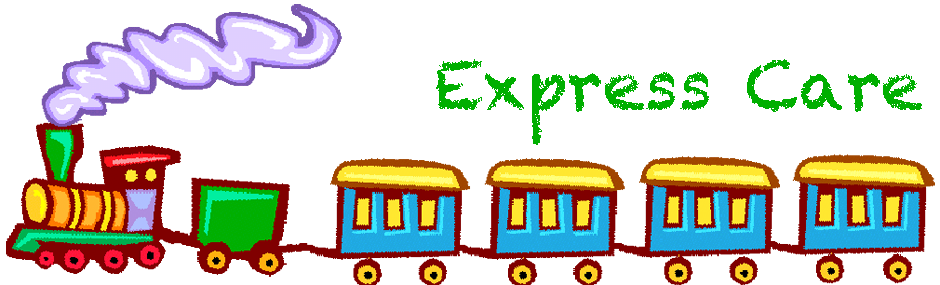
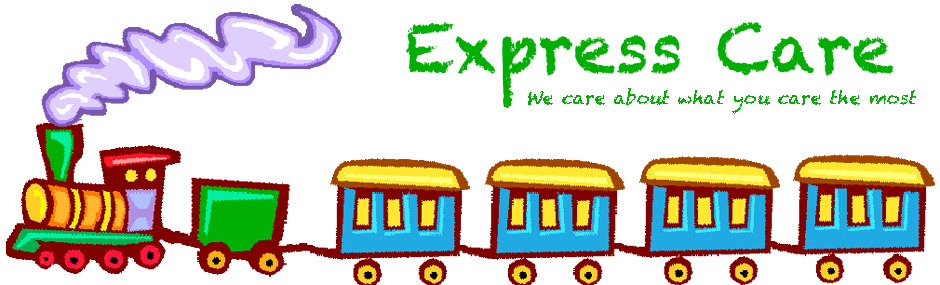
CSS changes and some texts

Changed region(s): [[0.4319, 0.0842, 0.9872, 0.5053]]

diff --git a/app/views/search.scala.html b/app/views/search.scala.html
@@ -11,10 +11,10 @@
 	    
 	    <img class="grid_12" src="@routes.Assets.at("images/train.png")" title="Reliable babysitters" />
 
-		<h1>Request a babysitter</h1>
+		<h1>Express Care. Nannies, childminders and babysitters in the right place at the right time</h1>
 		<div class="grid_6">
 			<p class="grid_1" style="color:#FFB730;font-size:8em;margin-top:0;">1</p>
-			<h2 class="grid_4 search">Where is your baby? MAKE THIS BETTER!</h2>
+			<h2 class="grid_4 search">Tell us where to pick your children</h2>
 			<div class="grid_6" id="map"> </div>
 			<p class="grid_6">You can drag and drop the marker to the correct location</p>
 		</div>
@@ -25,13 +25,13 @@
 <!--		<div class="grid_6 alpha" style="margin-top: 0"> -->
         <div>
         <p class="grid_1" style="color:#FFB730;font-size:8em;margin-top:0;">2</p>
-        <h2 class="grid_4 search">When? MAKE THIS BETTER!</h2>
+        <h2 class="grid_4 search">At what time should we be there?</h2>
         
 <!--        <div class="container_6"> -->
 
 			<div class="grid_5" style="margin-top:0.5em">
 			<dl id="search_details">
-				<dt class="grid_2" style="margin-bottom:0"><label for="startTime">start</label></dt><dd class="grid_2" style="margin-bottom:0"><input id="startTime" class="grid_2" name="start" type="text" size="20" /></dd>
+				<dt class="grid_2" style="margin-bottom:0"><strong label for="startTime">start</label></dt><dd class="grid_2" style="margin-bottom:0"><input id="startTime" class="grid_2" name="start" type="text" size="20" /></dd>
 				<dt class="grid_2" style="margin-top:0.2em"><label for="endTime">end</label></dt><dd class="grid_2" style="margin-top:0.2em"><input id="endTime" name="end" class="grid_2" type="text" size="20"/></dd>
 
 				<dt class="grid_2 details"><label>price</label></dt><dd class="grid_2 details"><p class="grid_3"><strong id="hourly_price">13</strong> €/h</p></dd>

diff --git a/public/stylesheets/themes/demo.css b/public/stylesheets/themes/demo.css
@@ -5,7 +5,7 @@ body {
   font-size: 16px;
   font-style: normal;
   font-weight: 300;
-    background-image:url(../../images/backgr2.png);
+  background-image:url(../../images/backgr2.png);
   background-repeat:no-repeat;
   background-position:center;
 
@@ -16,9 +16,9 @@ h1,h2,h3,h4 {
 }
 
 h1 {
+  font-family: 'Helvetica Neue', Helvetica, Arial, sans-serif;
   text-align: center;
-  font-weight:bold;
-  font-size:40px;
+  font-size:23px;
   color: #404040;
   background:#CCC;
   background-color: #F5F5F5;
@@ -142,6 +142,10 @@ a:hover,a:active
 {
 background-color:#00AF00;
 -moz-border-radius: 5px;
-	border-radius: 5px;
+border-radius: 5px;
 }
-	
+
+.search {
+	font-family: 'Helvetica Neue', Helvetica, Arial, sans-serif;
+	font-weight:400;
+	}
